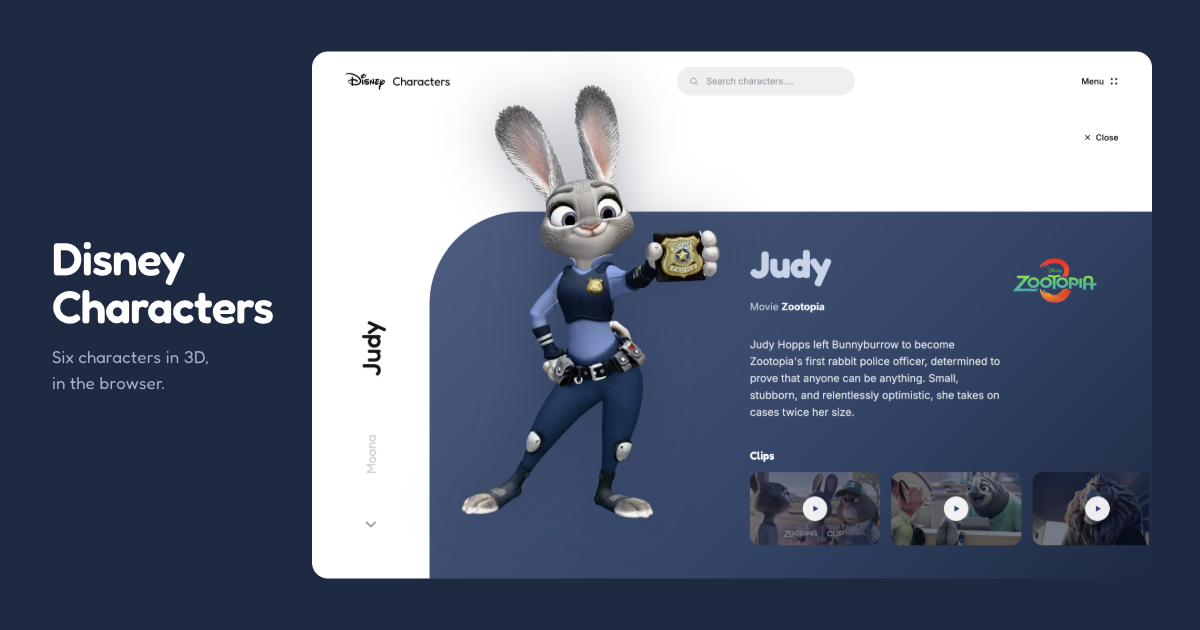
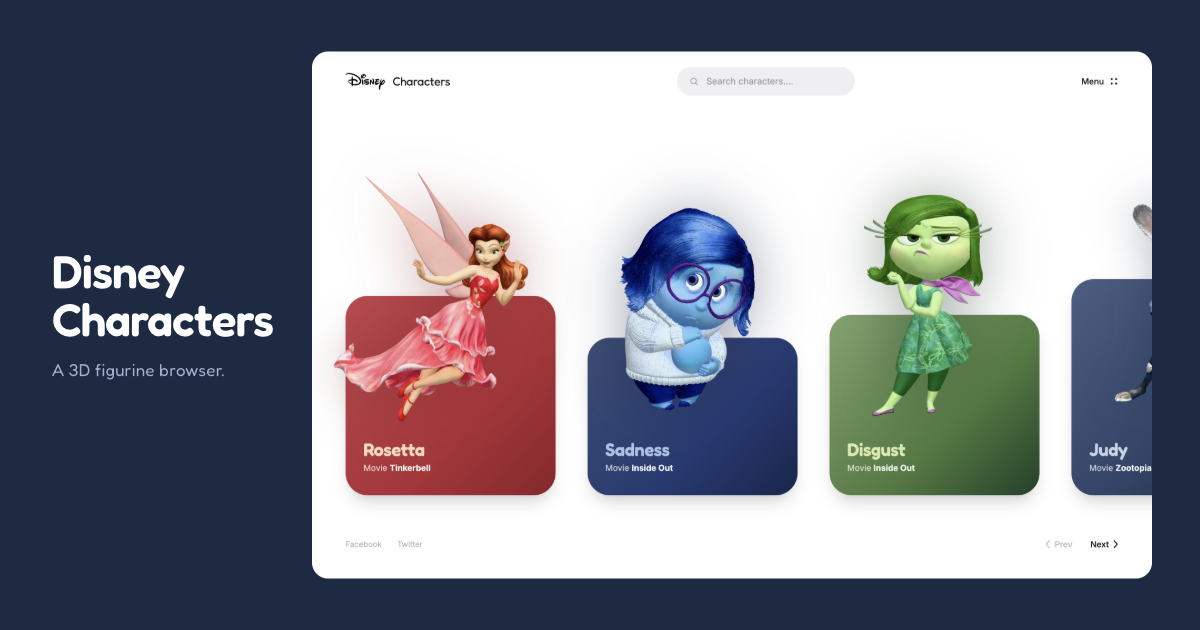
feat: use the carousel shot as the share card, with a one-line subtitle
The carousel reads better than the Judy detail view at the size a feed
actually renders these, so it becomes og.png and the detail card is dropped --
it stays in git history and as an artboard in Paper if it is ever wanted back.

Subtitle is one line now: "A 3D figurine browser." Which is what these are --
viewer.js has been describing the finish as the lacquer on a vinyl figure
since the materials were written.

The image alt went with it. It described Judy and her film clips, which is not
what the picture shows any more -- alt text that confidently narrates the
wrong image is worse than none.

diff --git a/index.html b/index.html
@@ -41,7 +41,7 @@
     <meta property="og:image:type" content="image/png" />
     <meta property="og:image:width" content="1200" />
     <meta property="og:image:height" content="630" />
-    <meta property="og:image:alt" content="Judy Hopps from Zootopia, rendered in 3D beside her description and film clips." />
+    <meta property="og:image:alt" content="The character carousel: Rosetta, Sadness, Disgust and Judy standing on their cards, each rendered in 3D." />
 
     <meta name="twitter:card" content="summary_large_image" />
     <meta name="twitter:title" content="Disney Characters — six characters in 3D, in the browser" />
@@ -50,7 +50,7 @@
       content="Six Disney characters rendered in 3D in the browser. Open one to see it fly into place, with its film's clips alongside."
     />
     <meta name="twitter:image" content="https://disney-characters.pages.dev/og.png" />
-    <meta name="twitter:image:alt" content="Judy Hopps from Zootopia, rendered in 3D beside her description and film clips." />
+    <meta name="twitter:image:alt" content="The character carousel: Rosetta, Sadness, Disgust and Judy standing on their cards, each rendered in 3D." />
 
     <link rel="preconnect" href="https://fonts.googleapis.com" />
     <link rel="preconnect" href="https://fonts.gstatic.com" crossorigin />
